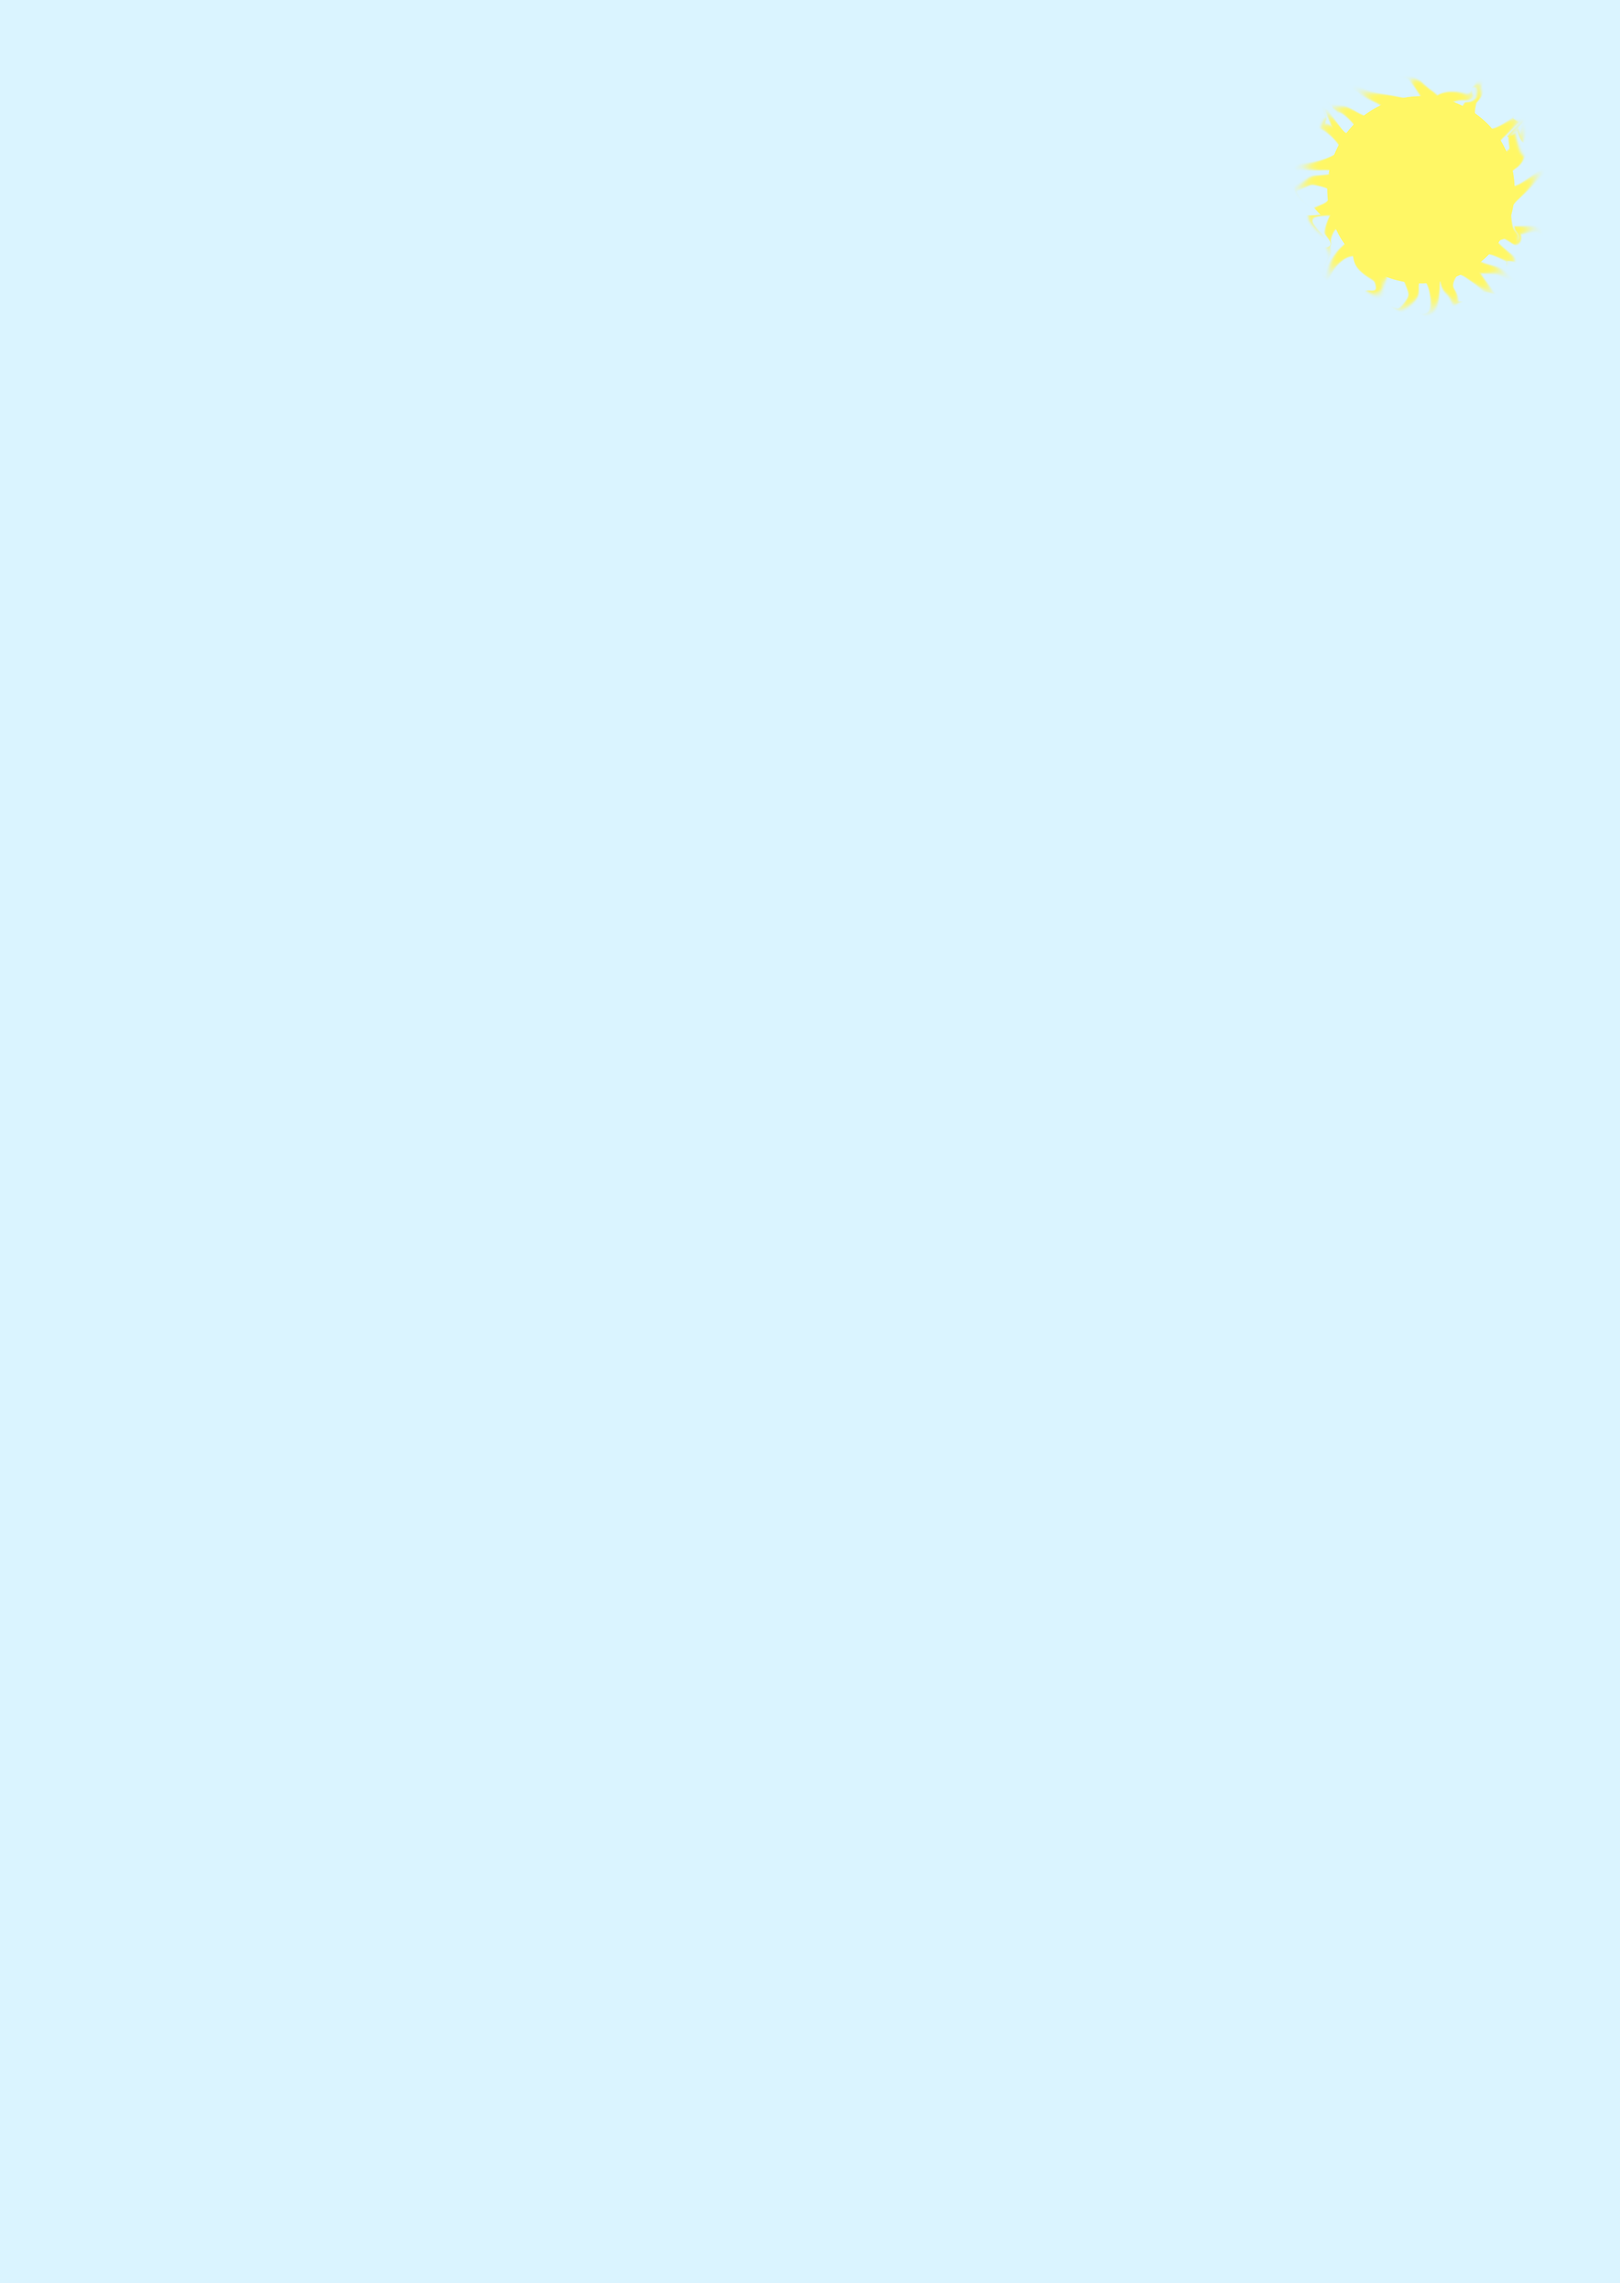
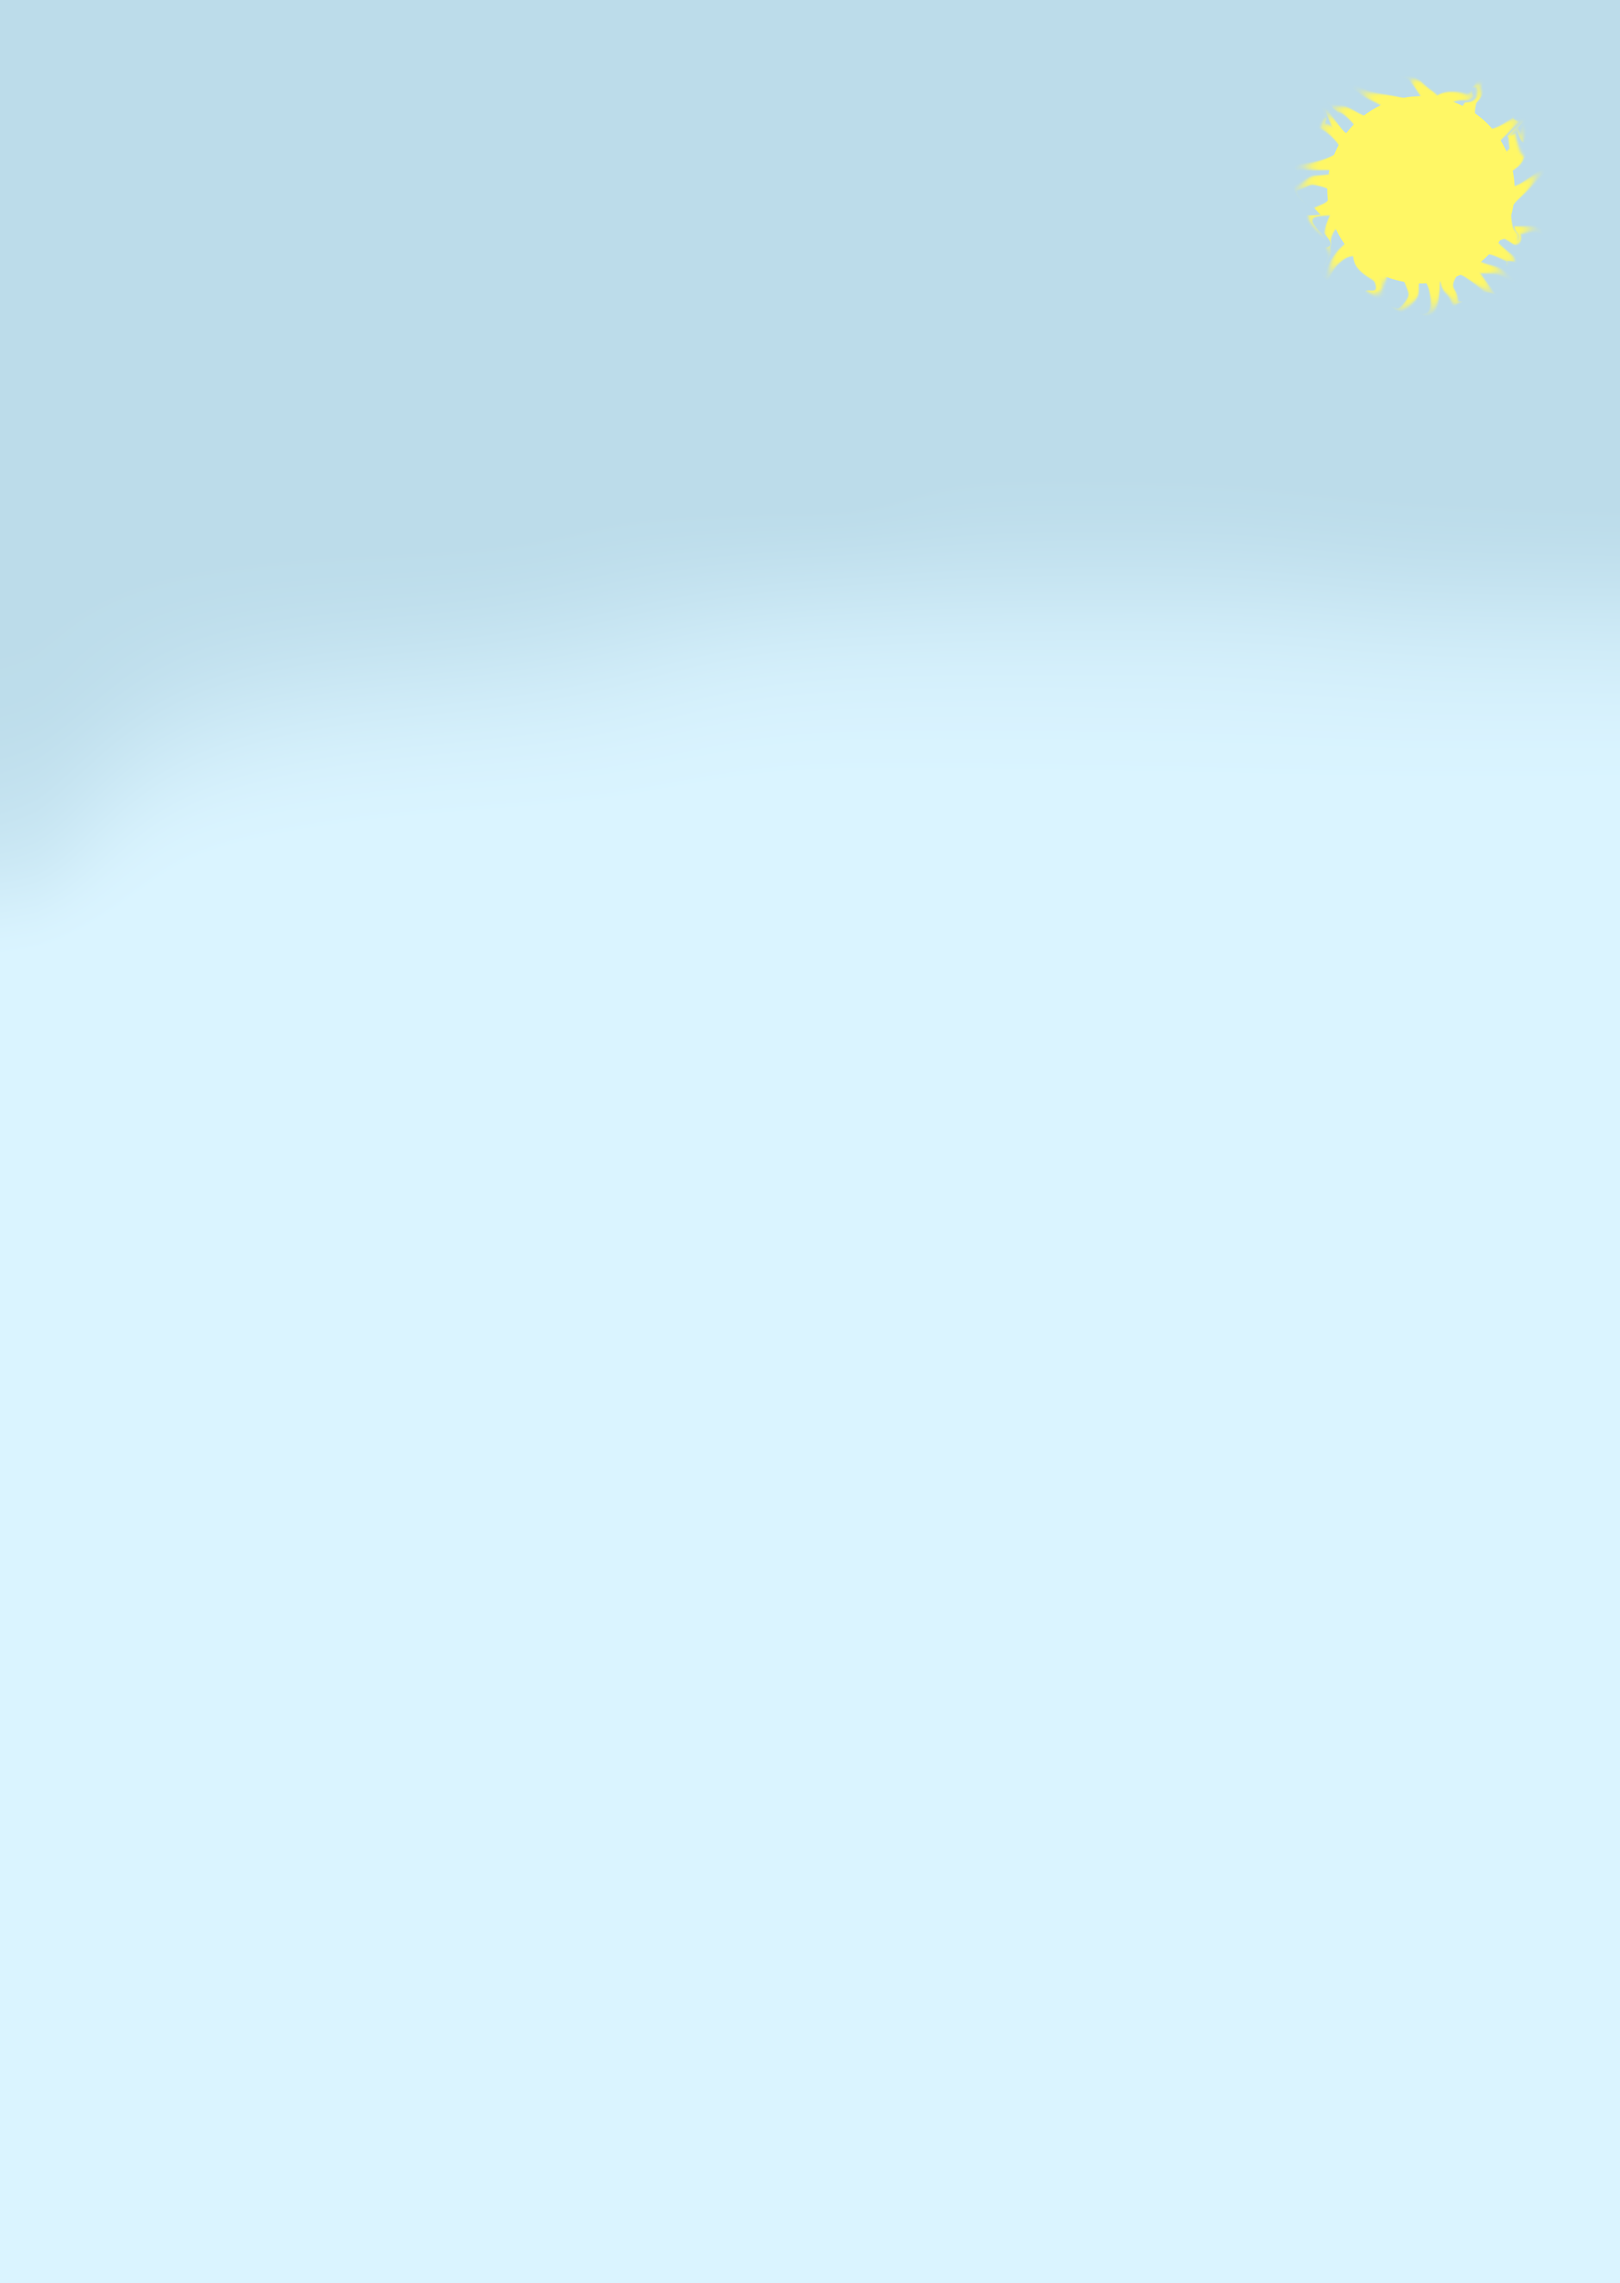
feat:改善讀取畫面介面、新增讀取畫面相關程式

Changed region(s): [[0.0, 0.0, 1.0, 0.3431]]

diff --git a/Assets/Scripts/ship.cs b/Assets/Scripts/ship.cs
@@ -1,0 +1,29 @@
+using System.Collections;
+using System.Collections.Generic;
+using UnityEngine;
+
+public class ship : MonoBehaviour
+{
+    private float passedTime = 0; 
+    private float timerInterval = 0.7f;
+    // Start is called before the first frame update
+    void Start()
+    {
+       
+    }
+
+    // Update is called once per frame
+    void Update()
+    {
+          passedTime += Time.deltaTime;
+
+        if (passedTime >= timerInterval)
+        {
+
+            transform.localPosition += new Vector3(-0.5f, 0, 0) * Time.deltaTime; 
+
+            passedTime = 0;
+            
+        }      
+    }
+}

diff --git a/Assets/Scripts/Wave2.cs b/Assets/Scripts/Wave2.cs
@@ -1,0 +1,18 @@
+using System.Collections;
+using System.Collections.Generic;
+using UnityEngine;
+
+public class Wave2 : MonoBehaviour
+{
+    // Start is called before the first frame update
+    void Start()
+    {
+        
+    }
+
+    // Update is called once per frame
+    void Update()
+    {
+        transform.localPosition += new Vector3(-0.01f, 0, 0) * Time.deltaTime; 
+    }
+}

diff --git a/Assets/Scripts/Wave.cs b/Assets/Scripts/Wave.cs
@@ -1,0 +1,18 @@
+using System.Collections;
+using System.Collections.Generic;
+using UnityEngine;
+
+public class Wave : MonoBehaviour
+{
+    // Start is called before the first frame update
+    void Start()
+    {
+        
+    }
+
+    // Update is called once per frame
+    void Update()
+    {
+        transform.localPosition += new Vector3(0.02f, 0, 0) * Time.deltaTime; 
+    }
+}
